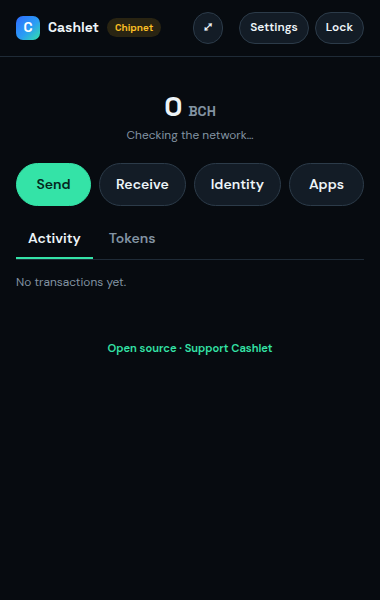
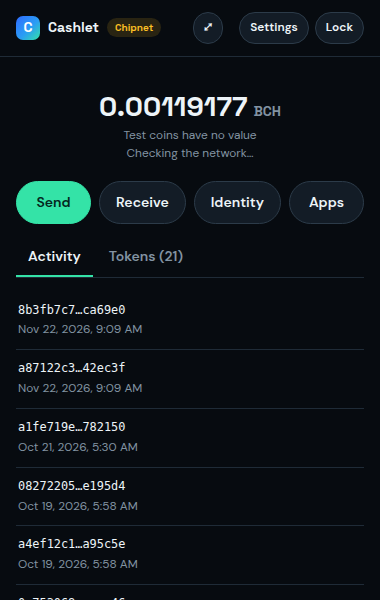
docs: features, screenshots and v0.2.0; tokens without a registry show their id once

diff --git a/e2e/screenshots.spec.ts b/e2e/screenshots.spec.ts
@@ -34,10 +34,27 @@ async function restore(page: Page) {
 const shot = (page: Page, name: string) => page.screenshot({ path: `docs/screenshot-${name}.png` });
 
 test("screenshots", async ({ context, popup }) => {
-  test.setTimeout(90_000);
+  test.setTimeout(180_000);
   await restore(popup);
-  await popup.waitForTimeout(3000);
+  await expect(popup.locator(".tx-row").first()).toBeVisible({ timeout: 45_000 });
+  await popup.waitForTimeout(4000);
   await shot(popup, "home");
+
+  await popup.getByRole("tab", { name: "Tokens" }).click();
+  await popup.waitForTimeout(3000);
+  await shot(popup, "tokens");
+  await popup.getByRole("tab", { name: "Activity" }).click();
+
+  await popup.locator(".tx-row").first().click();
+  await expect(popup.getByRole("link", { name: /Open in explorer/ })).toBeVisible({
+    timeout: 45_000,
+  });
+  await shot(popup, "transaction");
+  await popup.getByRole("button", { name: "Back" }).click();
+
+  await popup.getByRole("button", { name: "Settings" }).click();
+  await shot(popup, "settings");
+  await popup.getByRole("button", { name: "Back" }).click();
 
   await popup.getByRole("button", { name: "Receive" }).click();
   await expect(popup.getByRole("img", { name: /QR code for bchtest:/ })).toBeVisible();

diff --git a/src/popup/screens/Home.tsx b/src/popup/screens/Home.tsx
@@ -176,9 +176,15 @@ export function Home({
                     <TokenIcon meta={meta} />
                     <span className="token-names">
                       <span className="token-name">{tokenName(token.category, meta)}</span>
-                      <code className="small muted" title={token.category}>
-                        {short(token.category)}
-                      </code>
+                      {meta?.name ? (
+                        <code className="small muted" title={token.category}>
+                          {short(token.category)}
+                        </code>
+                      ) : (
+                        <span className="small muted">
+                          {meta?.state === "unknown" ? "No registry found" : "Looking up…"}
+                        </span>
+                      )}
                     </span>
                   </span>
                   <span className="token-amount">

diff --git a/README.md b/README.md
@@ -11,11 +11,35 @@ New wallets use mainnet. To try Cashlet with free test coins, open
 <p>
   <img src="docs/screenshot-home.png" width="190" alt="Home">
   <img src="docs/screenshot-receive.png" width="190" alt="Receive: a token-aware address by default">
+  <img src="docs/screenshot-transaction.png" width="190" alt="Transaction detail">
+  <img src="docs/screenshot-tokens.png" width="190" alt="Tokens">
+  <img src="docs/screenshot-settings.png" width="190" alt="Settings">
   <img src="docs/screenshot-identity.png" width="190" alt="Identity">
   <img src="docs/screenshot-send.png" width="190" alt="Send to an address, npub or did:bnd">
   <img src="docs/screenshot-approval.png" width="190" alt="A site asks for the Nostr key">
   <img src="docs/screenshot-apps.png" width="190" alt="Connected apps">
 </p>
+
+## Features
+
+- Send and receive BCH and CashTokens. Receive shows a token-aware address by
+  default. **Max** sends the whole BCH balance and never touches token coins.
+- Token names, symbols, decimals and icons from each token's on-chain BCMR
+  registry, checked against the hash published on chain.
+- Prices in 12 currencies, or off. Chipnet wallets fetch no prices.
+- Transaction detail: direction, amount, fee, confirmations, where it went,
+  and a link to a block explorer.
+- Settings for the fee rate (1 to 10 sat/byte) and a preferred Electrum server.
+- Several wallets under one password, switched in **Settings → Wallets**.
+- Bitcoin signed messages: sign with your identity or receive address, and
+  verify anyone's.
+- BND identity: publish, rotate and revoke the binding of your address to your
+  Nostr key. Pay anyone by `npub` or `did:bnd`.
+- For websites: a Nostr signer (NIP-07, NIP-04, NIP-44) and BND login, each
+  approved by you.
+- WizardConnect: a site's `wiz://` link is picked up from the page, and you
+  approve the connection and every transaction.
+- Popup, side panel or full-tab views.
 
 ## Install
 
@@ -40,8 +64,9 @@ New wallets use mainnet. To try Cashlet with free test coins, open
    it found before you confirm.
 5. Log in at [bnd.septemlabs.com](https://bnd.septemlabs.com) with the wallet.
    The site gets a signed answer to its challenge, never your keys.
-6. Under **Apps**, connect a dapp with WizardConnect and approve or reject what
-   it asks the wallet to sign.
+6. Open a dapp that offers WizardConnect. Cashlet finds its `wiz://` link and
+   asks whether to connect. You can also paste the link under **Apps**. Every
+   transaction the dapp asks for is shown for approval.
 
 ## Security and privacy
 
@@ -57,6 +82,9 @@ New wallets use mainnet. To try Cashlet with free test coins, open
   spends, and warns about any fee above 10 sat/byte or 1% of the amount.
 - There is no Cashlet server, account or analytics. The wallet talks to
   public Electrum servers for the chain and to Nostr relays for identity.
+  Besides those, the security policy lists exactly three hosts: one IPFS
+  gateway for token registries and icons, and two price sources. Registries
+  hosted elsewhere are not fetched, and those tokens show their short id.
 
 ## For websites
 
